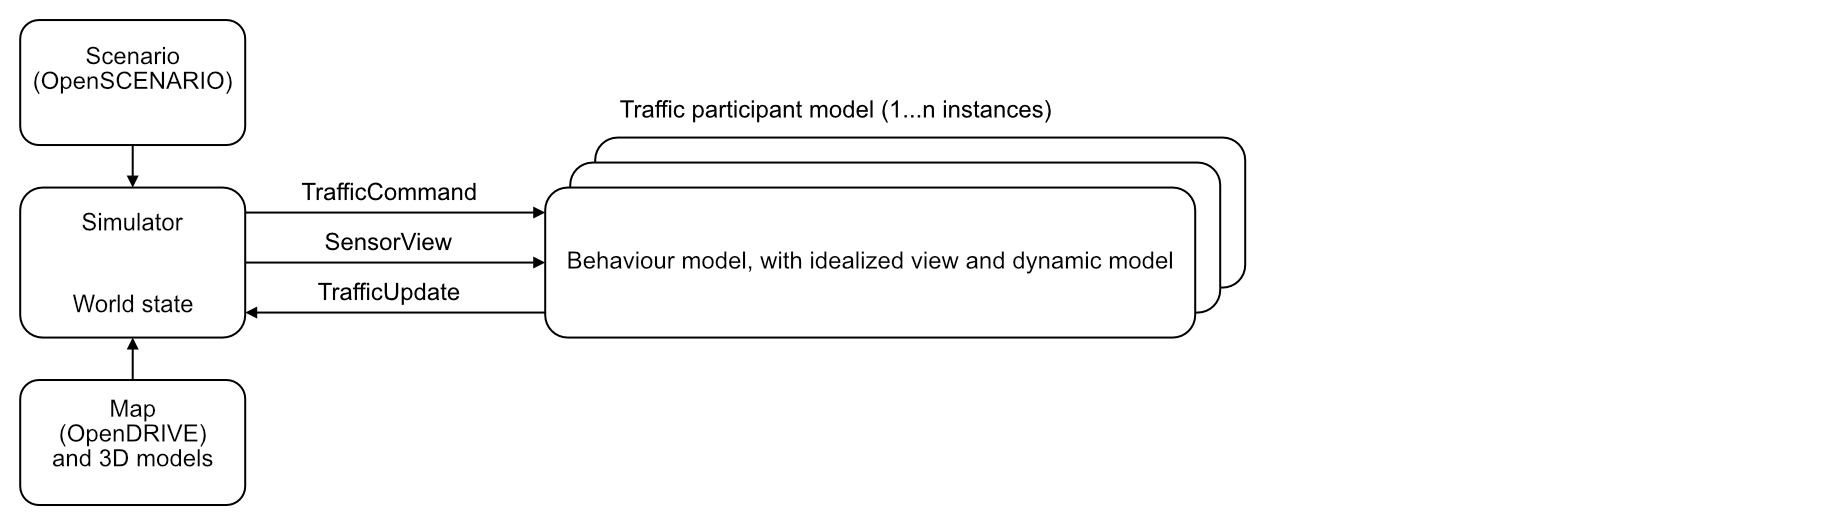
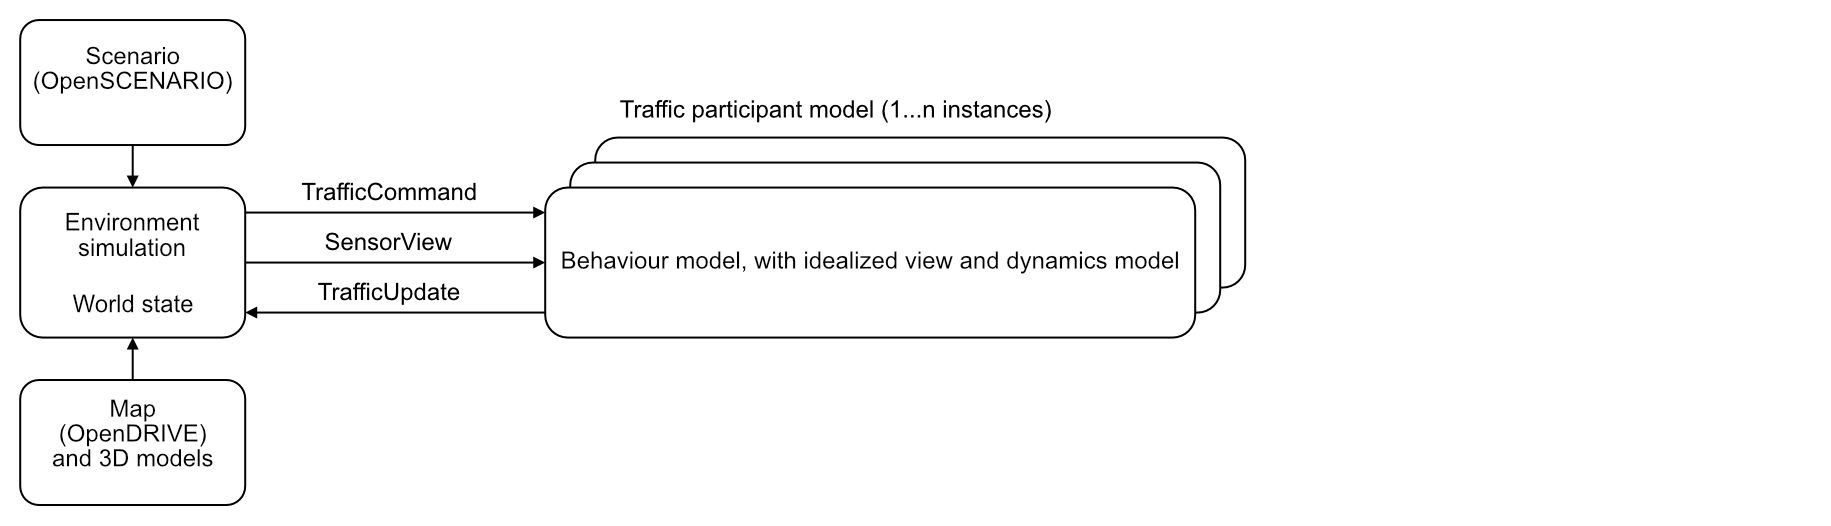
fix(docs): Changes after SME review (#17)

Changed region(s): [[0.3113, 0.4867, 0.6537, 0.5171], [0.0311, 0.3954, 0.1245, 0.4867]]

diff --git a/index.rst b/index.rst
@@ -9,7 +9,8 @@ Welcome to Open Simulation Interface's documentation!
 The Vision
 -----------
 
-The Open Simulation Interface (OSI) is a generic interface for the environmental perception of automated driving functions in virtual scenarios.
+The Open Simulation Interface (OSI) is a specification for interfaces between models and components of a distributed simulation.
+OSI has a strong focus on environmental perception of automated driving functions.
 
 As the complexity of automated driving functions rapidly increases, the requirements for test and development methods are growing.
 Testing in virtual environments offers the advantage of completely controlled and reproducible environment conditions.
@@ -17,7 +18,9 @@ Testing in virtual environments offers the advantage of completely controlled an
 In order to achieve widespread use of driving simulators for function developers, the connection between the function development framework and the simulation environment has to rely on generic and standardized interfaces.
 An easy and straight-forward compatibility between automated driving functions and the variety of available driving simulation frameworks is made possible by OSI.
 OSI was developed exactly for this purpose and addresses the emerging standard ISO 23150 for real sensors' standardized communication interface.
-In this context, OSI defines generic interfaces to ensure modularity, integrability, and interchangeability of the individual components:
+In this context, OSI defines generic interfaces to ensure modularity, integrability, and interchangeability of the individual components.
+The vision is to be able to connect any automated driving function to any driving simulator and emerging new hardware sensor generations with a standardized ISO 23150 interface. This will simplify integration and thus significantly strengthen the accessibility and usefulness of virtual testing.
+
 The following figure shows the interfaces and models involved in modeling a sensor.
 
 .. image:: _static/images/osi-context.png
@@ -45,7 +48,7 @@ Actuator intentions are currently not covered by OSI and must be handled with a 
 Interfaces
 ----------
 
-OSI contains an object-based environment description using the message format of the `protocol buffer <https://github.com/protocolbuffers/protobuf/wiki>`_ library developed and maintained by Google. OSI defines top-level messages that are used to exchange between separate models. Top-level messages defines the ``GroundTruth`` interface, the SensorData interface and, since OSI version 3.0.0, the ``SensorView`` / ``SensorView`` configuration interfaces and the ``FeatureData`` interface.
+OSI contains an object-based environment description using the message format of the `protocol buffer <https://github.com/protocolbuffers/protobuf/wiki>`_ library developed and maintained by Google. OSI defines top-level messages that are used to exchange between separate models. Top-level messages defines the ``GroundTruth`` interface, the ``SensorData`` interface and, since OSI version 3.0.0, the ``SensorView``, ``SensorViewConfiguration`` and ``FeatureData`` interfaces.
 
 The ``GroundTruth`` interface provides an exact view on the simulated objects in a global coordinate system, the ground truth world coordinate system. This message is populated using the data available internally and then published to external subscribers by a plugin within the driving simulation framework. Depending on the external subscriber, the ``GroundTruth`` message may be individually restricted to reduce the data to be exchanged to the necessary level (e.g. ``SensorView``).
 
@@ -53,16 +56,13 @@ The ``FeatureData`` interface provides a list of simple features in the referenc
 
 The ``SensorData`` interface describes the objects in the reference frame of a vehicle for environmental perception. It is generated from a ``GroundTruth`` message or from one or several ``FeatureData`` messages and can either be used to directly connect to an automated driving function using ideal simulated data, or may serve as input for a sensor model simulating limited perception as a replication of real world sensor behaviour.
 
-The ``SensorView`` Configuration interface is the configuration setting for the ``SensorView`` to be provided by the environment simulation. This message can be provided by the sensor model to the environment simulation, in which case it describes the input configuration that is desired by the sensor model. In response the environment simulation will configure the input and provide a new message of this type, which describes the actual configuration that it is going to employ. The two can and will differ, when either the environment simulation does not support a given requested configuration, and/or when the requested configuration allowed for multiple alternatives, in which case the set configuration will only contain the alternative chosen. It should be noted that this message is not intended to provide for parameterization of a generic sensor model, but rather for the automatic configuration of an environment simulation in order to supply the necessary input to it, depending on its actual configuration.
+The ``SensorViewConfiguration`` interface is the configuration setting for the ``SensorView`` to be provided by the environment simulation. This message can be provided by the sensor model to the environment simulation, in which case it describes the input configuration that is desired by the sensor model. In response the environment simulation will configure the input and provide a new message of this type, which describes the actual configuration that it is going to employ. The two can and will differ, when either the environment simulation does not support a given requested configuration, and/or when the requested configuration allowed for multiple alternatives, in which case the set configuration will only contain the alternative chosen. It should be noted that this message is not intended to provide for parameterization of a generic sensor model, but rather for the automatic configuration of an environment simulation in order to supply the necessary input to it, depending on its actual configuration.
 
 The ``SensorView`` interface is derived from ``GroundTruth`` and used as input to sensor models. The ``SensorView`` information is supposed to provide input to sensor models for simulation of actual real sensors. All information regarding the environment is given with respect to the virtual sensor coordinate system, except for the individual physical technology-specific data, which is given with respect to the physical sensor coordinate system specified in the corresponding physical sensor's mounting position, and the global ground truth, which is given in global coordinates.
 
-The ```TrafficCommand`` interface provides control commands from the scenario engine to traffic participant models.
+The ``TrafficCommand`` interface provides control commands from the scenario engine to traffic participant models.
 
 The ``TrafficUpdate`` interface is provided by traffic participant models to provide updates of their position, state and future trajectory back to the simulation environment.
-
-The authors' vision is to be able to connect any automated driving function to any driving simulator and emerging new hardware sensor generations with a standardized ISO 23150 interface. This will simplify integration and thus significantly strengthen the accessibility and usefulness of virtual testing.
-
 
 .. toctree::
    :maxdepth: 1

diff --git a/traffic-participants.rst b/traffic-participants.rst
@@ -4,7 +4,7 @@ Modeling traffic participants
 Traffic participants
 --------------------
 
-A traffic participant is an element of the simulated world, which can change its position and orientation during simulation time.
+A traffic participant is an element of the simulated world, which can change its state during simulation time, for example, position and orientation.
 A traffic participant represents one of the following:
 
 - A living being.
@@ -25,10 +25,9 @@ The following figure shows the interface of a traffic participant.
 With every simulation step, an OSI traffic participant model receives ground truth data from the environment around itself, the sensor view.
 A traffic participant can output its own perceivable state, the traffic update.
 Traffic commands influence the behavior of the traffic participant model.
-Traffic commands allow event-based communication towards the traffic participant, for example, at certain simulation steps.
-OSI only specifies the interface of the traffic participant.
-OSI is agnostic to the architecture of the simulation environment and the traffic participant.
-
+They allow event-based communication towards the traffic participant, that is, at certain simulation steps.
+Traffic commands do not necessarily need to come from the environment simulation.
+They may come from a separate source, for example, a scenario engine.
 
 Use cases for traffic participants
 ----------------------------------
@@ -38,7 +37,7 @@ In all the use cases, a simulator loads and interprets a scenario and a map prio
 The scenario is, for example, provided by OpenSCENARIO.
 The map data is, for example, provided by OpenDRIVE.
 During runtime the simulator interacts with the traffic participants via OSI messages.
-There can be multiple instances of a traffic participant.
+There may be multiple instances of a traffic participant.
 The traffic participants are co-simulated.
 
 The following figure shows a very simple use case.
@@ -49,19 +48,12 @@ The following figure shows a very simple use case.
 
 The traffic participant bases its behavior only on an idealized view of the area around it.
 If they exist, the traffic participant’s dynamics are included in the model.
-The map, the simulated world state, the sensor view, and the traffic updates represent the ground truth, meaning objective statements about the world.
-The scenario and the traffic commands on the other hand represent the intentions of the traffic participants.
 
 The following figure shows a traffic participant with separately modeled behavior and dynamics.
 
 .. image:: _static/images/osi-traffic-participant-use-case-2.png
    :align: center
    :alt: Traffic participants with separate dynamics
-
-Separating dynamics from behavior introduces two more types of channels:
-
-* Measured data, meaning ground truth as interpreted by the traffic participant
-* Actuator-intention data, providing information on what actuators are supposed to do
 
 OSI currently provides only limited support for data structures describing measured internal states of the traffic participant.
 Actuator intentions are currently not covered by OSI and must be handled with a different data description format.
@@ -70,14 +62,14 @@ The following figure shows a more complex traffic participant.
 
 .. image:: _static/images/osi-traffic-participant-use-case-3.png
    :align: center
-   :alt: Traffic participant with sensor models, AD function, and dynamic model
+   :alt: Traffic participant with sensor models, AD function, and dynamics model
 
 This use case will probably be relevant for modeling the ego vehicle, which includes the system-under-test.
-The traffic participant includes an arbitrary number of sensor models, which provide sensor data.
-Sensor data is another example of measured data as an interpretation of ground truth by the traffic participant.
-In contrast to data describing the internal state of the vehicle, sensor data describes how sensors interpret the surroundings, for example, with lidar, camera, radar, or ultrasonic technology.
-The AD function consumes measured data and outputs actuator-intention data.
-OSI currently does not support actuator-intention data.
+The traffic participant includes an arbitrary number of sensor models
+The sensor models consume sensor view and produce sensor data.
+The AD function consumes sensor data and produces input for the dynamics model.
+OSI currently does not support data flow to dynamics models.
+The loop to the environment simulation is closed via traffic update.
 
 The following figure shows a cooperative use case with both an AD function and a human driver.
 
@@ -87,7 +79,9 @@ The following figure shows a cooperative use case with both an AD function and a
 
 It is possible to model a traffic participant with an AD function in the loop, but a human driver can still override the actuation command.
 Such a cooperative use case is, for example, relevant to studies on human-machine interaction.
-OSI's limitations regarding dynamic-model input apply in this example as well.
+In this example, a virtual on-screen representation of the scenario, or mock-up, is added after the AD function.
+The driver-in-the-loop interacts with the dynamics model via this mock-up.
+OSI's limitations regarding dynamics-model input apply in this example as well.
 
 The following figure shows a similar example with the difference that there is only a human driver in control.
 
